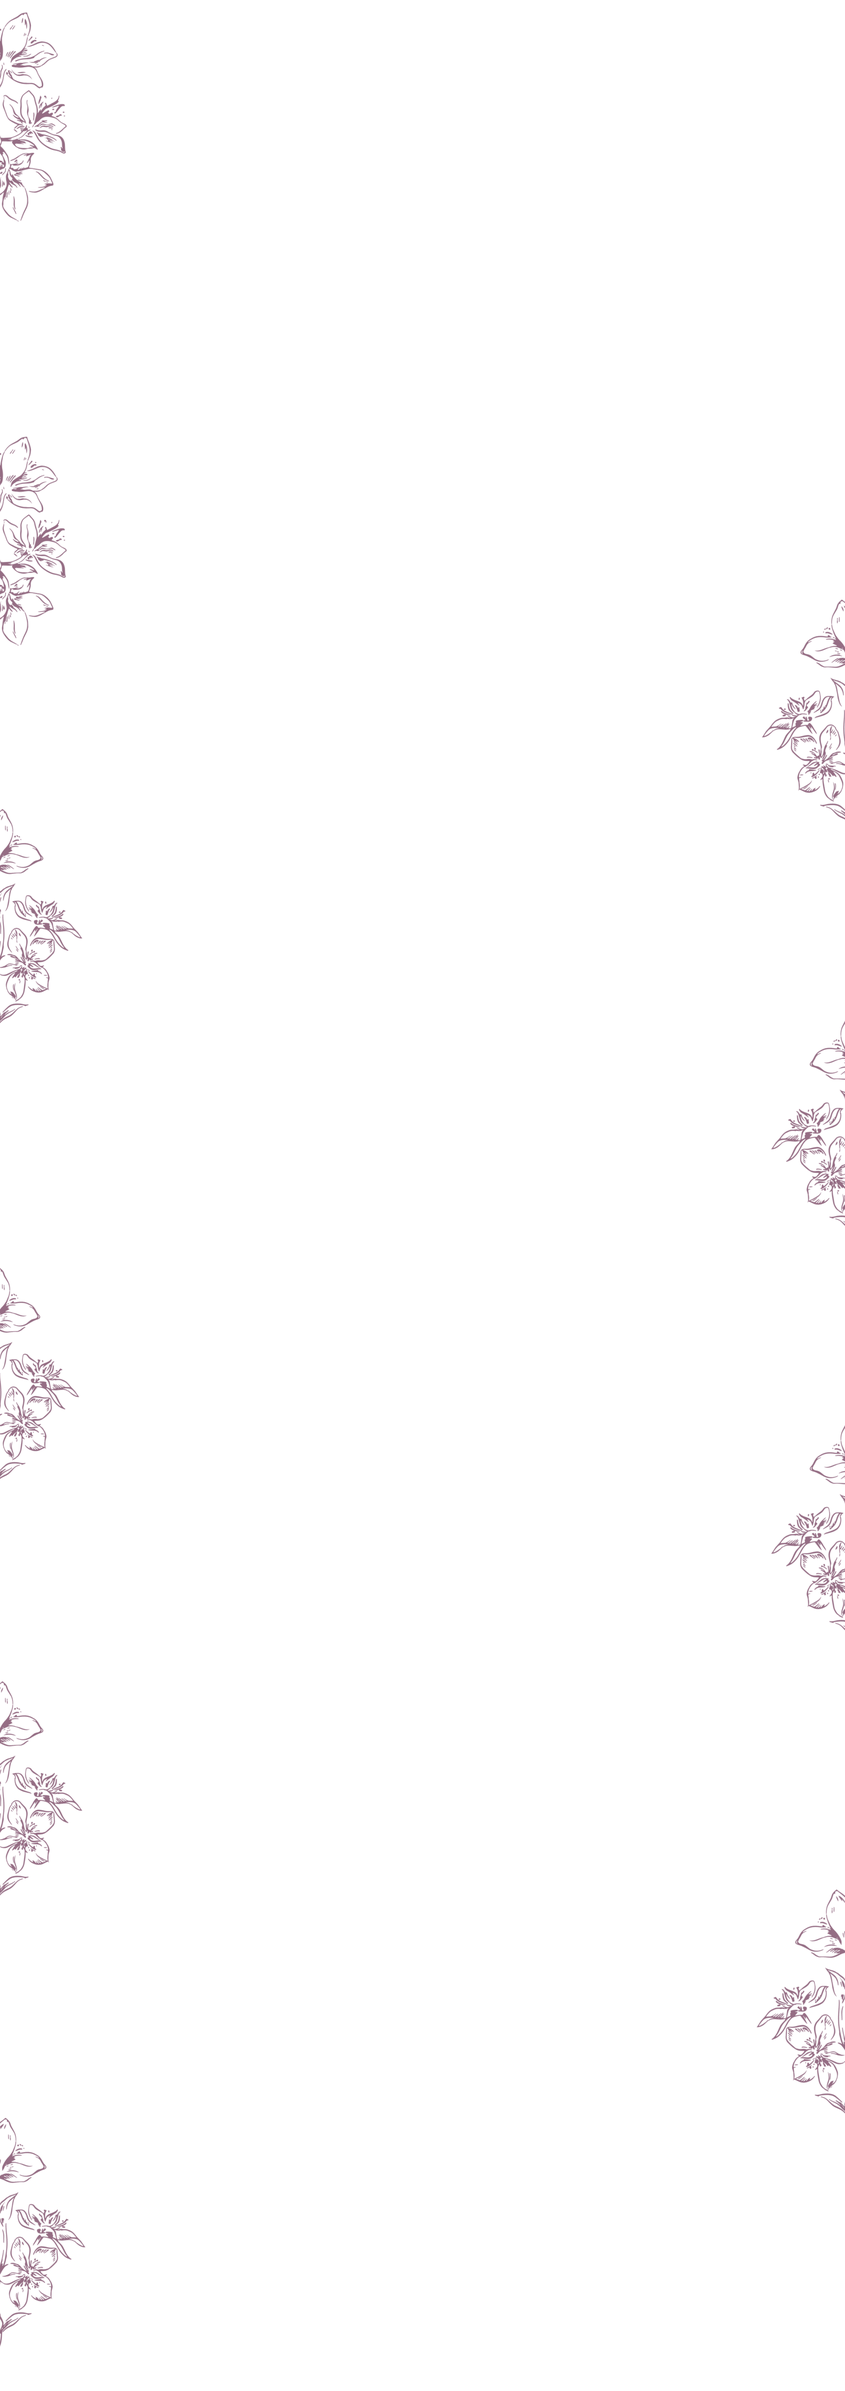
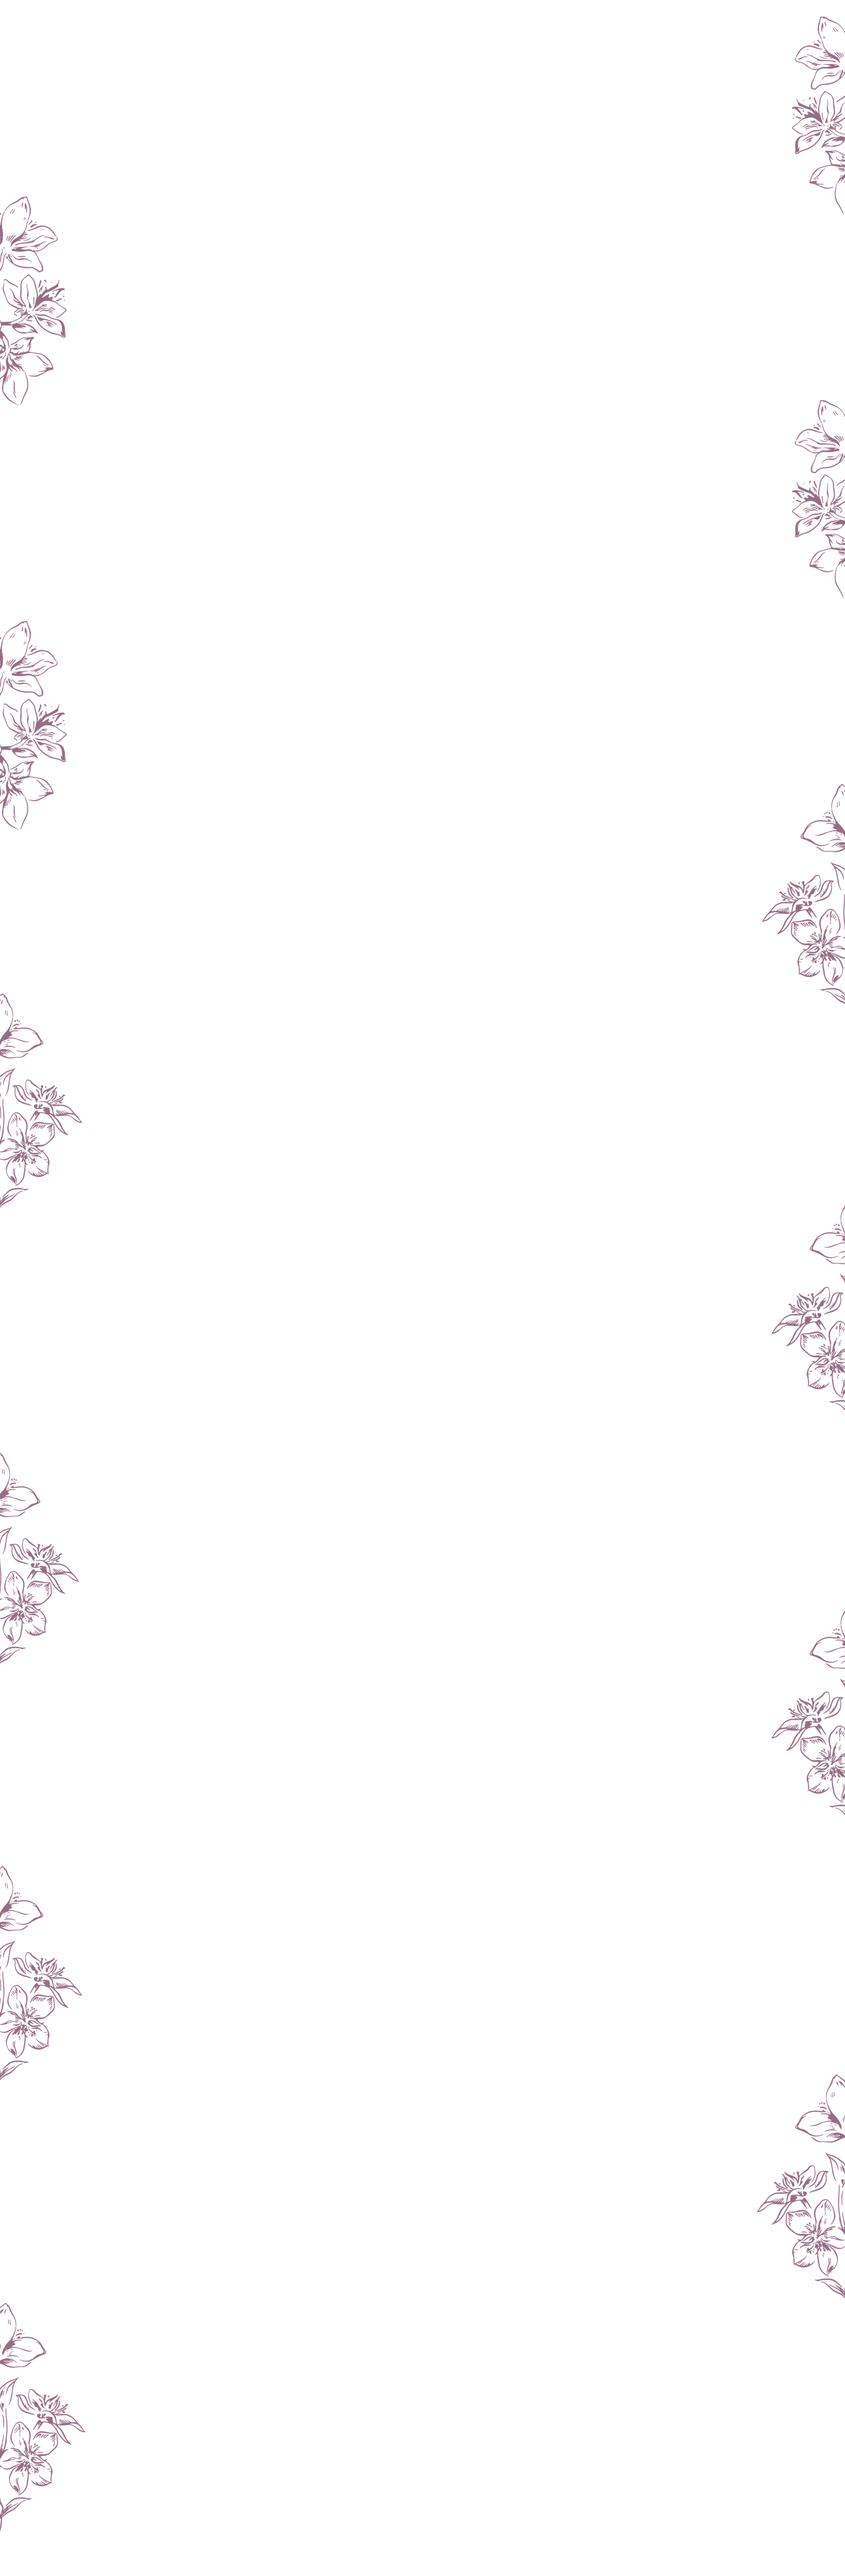
add sort button

diff --git a/src/components/catalog/sort/index.tsx b/src/components/catalog/sort/index.tsx
@@ -2,6 +2,15 @@ import './index.less';
 import { Select } from '@ui/shared/select';
 import { useAppDispath, useAppSelector } from '@redux/store/store';
 import { setSort } from '@redux/reducers/catalog.reducer';
+import { Button } from '@ui/shared/button';
+import { useState } from 'react';
+
+const SORT = [
+  { value: 'rating', name: 'Рейтинг по возрастанию' },
+  { value: '-rating', name: 'Рейтинг по убыванию' },
+  { value: 'price', name: 'Цена по возрастанию' },
+  { value: '-price', name: 'Цена по убыванию' },
+];
 
 export const Sort = () => {
   const { sort } = useAppSelector((state) => state.catalog);
@@ -11,17 +20,43 @@ export const Sort = () => {
     dispatch(setSort(value));
   };
 
+  const sortLabel =
+    SORT.find((item) => item.value === sort)?.name || 'Не выбран';
+
+  const [isOptions, setIsOptions] = useState(false);
+
   return (
-    <Select
-      value={sort}
-      onChange={handleChange}
-      title={'Сортировка'}
-      options={[
-        { value: 'rating', name: 'Рейтинг по возрастанию' },
-        { value: '-rating', name: 'Рейтинг по убыванию' },
-        { value: 'price', name: 'Цена по возрастанию' },
-        { value: '-price', name: 'Цена по убыванию' },
-      ]}
-    />
+    <>
+      <Select
+        className="select"
+        value={sort}
+        onChange={handleChange}
+        title={'Сортировка'}
+        options={SORT}
+      />
+      <div className="button__filter">
+        <Button
+          text={sortLabel}
+          onClick={() => {
+            setIsOptions(!isOptions);
+          }}
+        />
+
+        {isOptions && (
+          <div
+            className="button__options-list"
+            onClick={() => {
+              isOptions;
+            }}
+          >
+            {SORT.map((item) => (
+              <div className="button__optons__item">
+                <span>{item.name}</span>
+              </div>
+            ))}
+          </div>
+        )}
+      </div>
+    </>
   );
 };

diff --git a/src/components/catalog/sort/index.less b/src/components/catalog/sort/index.less
@@ -1,3 +1,6 @@
+@import '@style/constants.less';
+@import '@style/mixins.less';
+
 .catalog__product {
   .select__triangle {
     display: none;
@@ -12,6 +15,39 @@
       color: var(--grey-color);
       font-family: 'Roboto';
       background-color: var(--background-color);
+    }
+  }
+
+  .button__filter {
+    position: relative;
+  }
+
+  .button__options-list {
+    flex-direction: column;
+    align-items: flex-start;
+    display: flex;
+    padding: 5px;
+    z-index: 10;
+    position: absolute;
+    top: 55px;
+    left: 0;
+    width: 220px;
+    background-color: var(--background-color);
+    border: 1px solid var(--primary-color);
+
+    .button__optons__item {
+      padding: 5px 0;
+      color: var(--grey-color);
+      cursor: pointer;
+      width: 100%;
+
+      &:hover {
+        background-color: var(--border-color);
+      }
+
+      span {
+        font-weight: 400;
+      }
     }
   }
 }

diff --git a/src/components/catalog/result/index.less b/src/components/catalog/result/index.less
@@ -2,10 +2,15 @@
 
 .catalog-card {
   display: grid;
-  grid-template-columns: repeat(3, 1fr);
+  // grid-template-columns: repeat(3, 1fr);
+  grid-template-columns: repeat(auto-fit, minmax(200px, 1fr));
   grid-column-gap: 20px;
   grid-row-gap: 20px;
   margin-top: 25px;
+
+  .product-card {
+    max-width: none;
+  }
 }
 
 .catalog__pagination {
@@ -15,4 +20,20 @@
 
 .catalog__product {
   width: 100%;
+}
+
+.button__filter {
+  display: none;
+}
+
+@media screen and (max-width: 650px) {
+  .catalog__product {
+    select {
+      display: none;
+    }
+
+    .button__filter {
+      display: flex;
+    }
+  }
 }

diff --git a/src/ui/shared/breadcrumb/index.less b/src/ui/shared/breadcrumb/index.less
@@ -12,28 +12,26 @@
     margin: 0 11px;
     color: var(--text-color);
     font-weight: 300;
-    font-size: 16px;
+    font-size: 20px;
   }
 
   &__link {
     color: var(--text-color);
     text-decoration: underline;
     font-weight: 300;
-    font-size: 16px;
+    font-size: 20px;
   }
 }
 
 @media screen and (max-width: 500px) {
   .breadcrumbs {
-    margin: 0 -5px;
-
     &__item {
       margin: 0 5px;
     }
 
     &__item,
     &__link {
-      font-size: 9px;
+      font-size: 15px;
     }
   }
 }

diff --git a/src/pages/catalog/index.less b/src/pages/catalog/index.less
@@ -13,7 +13,7 @@
   &__header {
     color: var(--grey-color);
     ._center();
-    margin: 60px 0px 50px 0;
+    margin: 60px 0;
 
     h1 {
       font-size: 35px;
@@ -22,5 +22,13 @@
   }
   .catalog__main {
     display: flex;
+  }
+}
+
+@media screen and (max-width: 900px) {
+  .catalog {
+    &__header {
+      margin: 45px 0;
+    }
   }
 }

diff --git a/src/index.less b/src/index.less
@@ -16,9 +16,10 @@ body {
 
 #root {
   background-image: url(./assets/images/flowers.png);
+  background-size: 100vw;
+  overflow: hidden;
 }
 
 .MuiSkeleton-root {
   background-color: rgba(191, 183, 183, 0.2) !important;
-  // background-color: var(--border-color) !important;
 }

diff --git a/src/pages/order-created/index.less b/src/pages/order-created/index.less
@@ -33,11 +33,11 @@
   }
 
   &__description {
-    margin-top: 20px;
+    margin-top: 30px;
     span {
       cursor: pointer;
       text-decoration: underline;
-      font-size: 20px;
+      font-size: 17px;
       color: var(--grey-color);
     }
   }

diff --git a/src/ui/shared/select/index.less b/src/ui/shared/select/index.less
@@ -72,3 +72,11 @@
     }
   }
 }
+
+@media screen and (max-width: 650px) {
+  .select {
+    &__text span {
+      display: none;
+    }
+  }
+}
